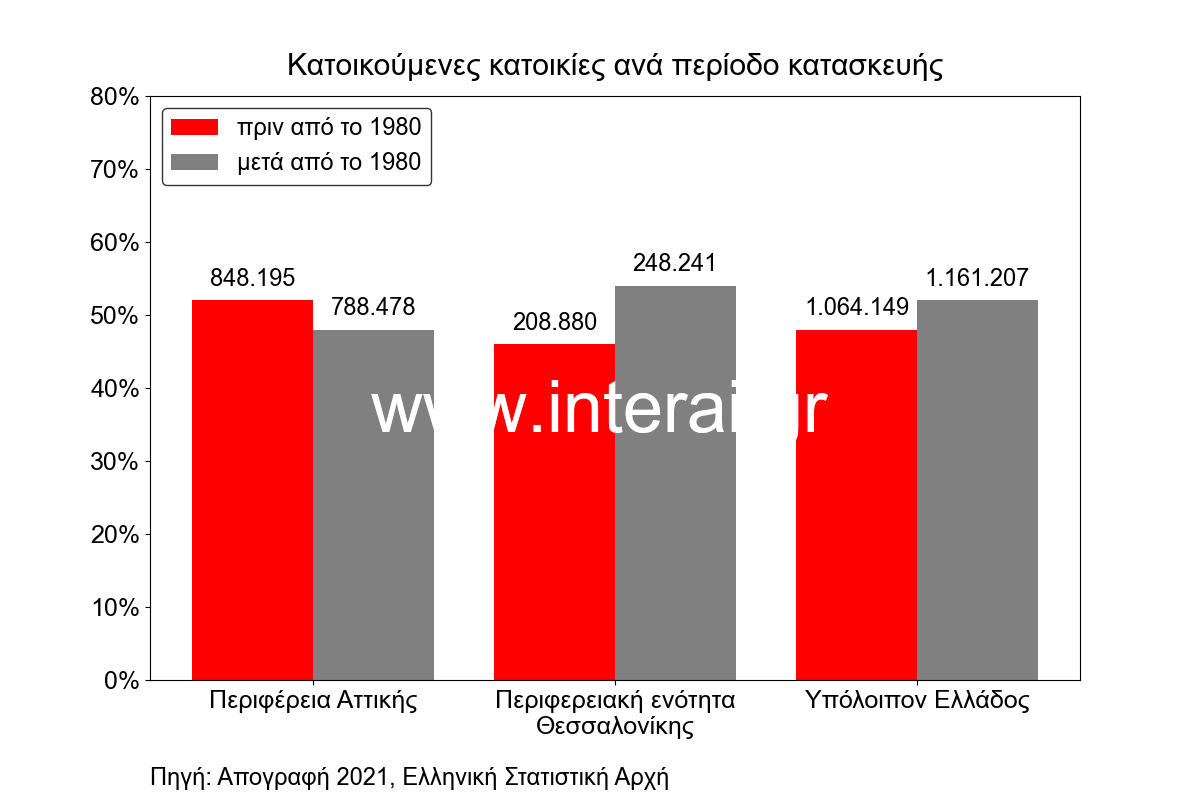
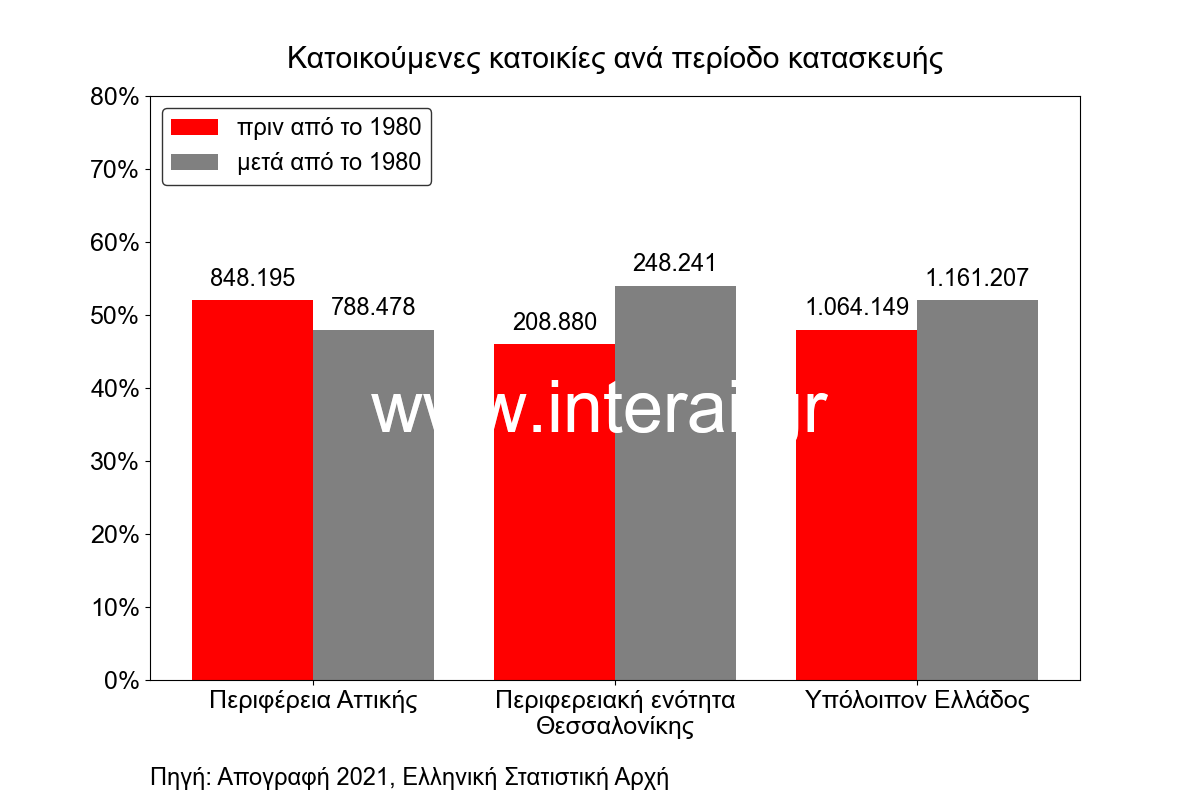
1111

Changed region(s): [[0.2467, 0.0625, 0.8017, 0.0938]]

diff --git a/stats_images_insert.py b/stats_images_insert.py
@@ -3,16 +3,41 @@ from psycopg2.extras import Json
 
 
 # Variables for the new record
-stats_data = [{"page":"Greece","sum":24187522,"daily_average":7356,"2015-11":223601,"2015-12":197326,"2016-01":216287,"2016-02":207140,"2016-03":226429,"2016-04":235525,"2016-05":236516,"2016-06":231928,"2016-07":214597,"2016-08":223345,"2016-09":212563,"2016-10":209623,"2016-11":228265,"2016-12":195568,"2017-01":233329,"2017-02":203050,"2017-03":232449,"2017-04":219176,"2017-05":233792,"2017-06":211580,"2017-07":209428,"2017-08":197693,"2017-09":196637,"2017-10":215884,"2017-11":205811,"2017-12":184564,"2018-01":209209,"2018-02":200678,"2018-03":232487,"2018-04":223327,"2018-05":237658,"2018-06":237555,"2018-07":265311,"2018-08":221942,"2018-09":225862,"2018-10":236803,"2018-11":203010,"2018-12":189880,"2019-01":220105,"2019-02":199981,"2019-03":211314,"2019-04":207207,"2019-05":215919,"2019-06":209262,"2019-07":226078,"2019-08":204618,"2019-09":209503,"2019-10":217647,"2019-11":199648,"2019-12":186626,"2020-01":218382,"2020-02":191675,"2020-03":232905,"2020-04":243675,"2020-05":223164,"2020-06":184584,"2020-07":202964,"2020-08":223548,"2020-09":206251,"2020-10":200461,"2020-11":186499,"2020-12":177193,"2021-01":196950,"2021-02":182002,"2021-03":237663,"2021-04":231813,"2021-05":228698,"2021-06":223765,"2021-07":242349,"2021-08":264239,"2021-09":227238,"2021-10":218717,"2021-11":201371,"2021-12":191955,"2022-01":227521,"2022-02":222792,"2022-03":247974,"2022-04":225891,"2022-05":247029,"2022-06":232155,"2022-07":241060,"2022-08":249973,"2022-09":266828,"2022-10":252580,"2022-11":243684,"2022-12":225304,"2023-01":263356,"2023-02":217347,"2023-03":262284,"2023-04":226563,"2023-05":288337,"2023-06":283364,"2023-07":277672,"2023-08":282594,"2023-09":243614,"2023-10":247495,"2023-11":215626,"2023-12":214890,"2024-01":250057,"2024-02":247216,"2024-03":244795,"2024-04":245375,"2024-05":240048,"2024-06":217037,"2024-07":230085,"2024-08":247972,"2024-09":216710,"2024-10":210497},{"page":"Mykonos","sum":3039944,"daily_average":925,"2015-11":16272,"2015-12":19377,"2016-01":24539,"2016-02":20287,"2016-03":21951,"2016-04":24857,"2016-05":33264,"2016-06":39010,"2016-07":45898,"2016-08":41617,"2016-09":30882,"2016-10":21817,"2016-11":15663,"2016-12":16789,"2017-01":26045,"2017-02":20067,"2017-03":21814,"2017-04":22245,"2017-05":29952,"2017-06":36759,"2017-07":43569,"2017-08":34369,"2017-09":28245,"2017-10":21121,"2017-11":16098,"2017-12":13848,"2018-01":22119,"2018-02":18982,"2018-03":22534,"2018-04":25695,"2018-05":35179,"2018-06":43885,"2018-07":54268,"2018-08":46631,"2018-09":39377,"2018-10":28451,"2018-11":17245,"2018-12":18785,"2019-01":39414,"2019-02":23285,"2019-03":25353,"2019-04":26162,"2019-05":34759,"2019-06":43381,"2019-07":49014,"2019-08":44116,"2019-09":32988,"2019-10":23748,"2019-11":16456,"2019-12":19326,"2020-01":22740,"2020-02":16319,"2020-03":13732,"2020-04":15480,"2020-05":19865,"2020-06":20740,"2020-07":30397,"2020-08":49772,"2020-09":22314,"2020-10":17693,"2020-11":14736,"2020-12":16382,"2021-01":16933,"2021-02":15736,"2021-03":18557,"2021-04":19074,"2021-05":25488,"2021-06":38259,"2021-07":56761,"2021-08":48312,"2021-09":34324,"2021-10":22883,"2021-11":16284,"2021-12":16551,"2022-01":24740,"2022-02":25497,"2022-03":25412,"2022-04":29413,"2022-05":36571,"2022-06":43097,"2022-07":57859,"2022-08":50880,"2022-09":40867,"2022-10":26941,"2022-11":18258,"2022-12":16598,"2023-01":22705,"2023-02":19505,"2023-03":25448,"2023-04":30085,"2023-05":36179,"2023-06":43900,"2023-07":53964,"2023-08":45290,"2023-09":35842,"2023-10":24215,"2023-11":16383,"2023-12":15552,"2024-01":21790,"2024-02":17610,"2024-03":19178,"2024-04":22155,"2024-05":26377,"2024-06":30702,"2024-07":32750,"2024-08":31048,"2024-09":25805,"2024-10":20488},{"page":"Santorini","sum":8187090,"daily_average":2490,"2015-11":55900,"2015-12":59696,"2016-01":84623,"2016-02":76338,"2016-03":83581,"2016-04":87504,"2016-05":109894,"2016-06":109357,"2016-07":120654,"2016-08":109741,"2016-09":100952,"2016-10":85798,"2016-11":63886,"2016-12":78042,"2017-01":87348,"2017-02":72936,"2017-03":86177,"2017-04":84256,"2017-05":105673,"2017-06":114130,"2017-07":132163,"2017-08":103070,"2017-09":88000,"2017-10":87781,"2017-11":61805,"2017-12":63274,"2018-01":74870,"2018-02":65922,"2018-03":77412,"2018-04":84295,"2018-05":108227,"2018-06":112697,"2018-07":119571,"2018-08":101574,"2018-09":96612,"2018-10":75445,"2018-11":52064,"2018-12":63126,"2019-01":68615,"2019-02":55531,"2019-03":65072,"2019-04":75677,"2019-05":82474,"2019-06":96927,"2019-07":94721,"2019-08":79394,"2019-09":75320,"2019-10":69982,"2019-11":48950,"2019-12":61094,"2020-01":63860,"2020-02":53912,"2020-03":46711,"2020-04":60905,"2020-05":52818,"2020-06":60183,"2020-07":73598,"2020-08":81249,"2020-09":67444,"2020-10":54808,"2020-11":42211,"2020-12":61120,"2021-01":53539,"2021-02":48385,"2021-03":61226,"2021-04":51455,"2021-05":61908,"2021-06":78274,"2021-07":96762,"2021-08":95120,"2021-09":84439,"2021-10":71538,"2021-11":45975,"2021-12":58072,"2022-01":62363,"2022-02":50815,"2022-03":51063,"2022-04":62589,"2022-05":86515,"2022-06":89734,"2022-07":98405,"2022-08":100611,"2022-09":93216,"2022-10":73881,"2022-11":54549,"2022-12":55264,"2023-01":68172,"2023-02":57898,"2023-03":71863,"2023-04":76003,"2023-05":102608,"2023-06":112697,"2023-07":114060,"2023-08":109585,"2023-09":90805,"2023-10":70852,"2023-11":47066,"2023-12":55043,"2024-01":61708,"2024-02":51210,"2024-03":56168,"2024-04":59960,"2024-05":65842,"2024-06":61128,"2024-07":63034,"2024-08":61486,"2024-09":56598,"2024-10":50636}]  
-tags = "Ελλάδα, Σαντορίνη, Μύκονος, Πρόβλεψη τουρισμού"
-slug = "greece-mykonos-santorini-wikipedia-pageviews-timeseries-241124"
+stats_data = {
+  "Περιφέρεια Αττικής": {
+    "πριν από το 1980": 848195,
+    "1980 και μετά": 788478,
+    "Ποσοστά": {
+      "πριν από το 1980": "52%",
+      "1980 και μετά": "48%"
+    }
+  },
+  "Περιφερειακή ενότητα Θεσσαλονίκης": {
+    "πριν από το 1980": 208880,
+    "1980 και μετά": 248241,
+    "Ποσοστά": {
+      "πριν από το 1980": "46%",
+      "1980 και μετά": "54%"
+    }
+  },
+  "Υπόλοιπον Ελλάδος": {
+    "πριν από το 1980": 1064149,
+    "1980 και μετά": 1161207,
+    "Ποσοστά": {
+      "πριν από το 1980": "48%",
+      "1980 και μετά": "52%"
+    }
+  }
+} 
+tags = "Κατοικίες, Περιφέρεια Αττικής, Περιφερειακή ενότητα Θεσσαλονίκης, Αντισεισμικός Σχεδιασμός Κτιριακών Κατασκευών"
+slug = "Κατοικούμενες-κατοικίες-ανά-περίοδο-κατασκευής-241124"
 # source = "Πηγή: Απογραφή 2021, Ελληνική Στατιστική Αρχή"
-source = "Πηγή: Wikipedia"
-title = "Επισκέψεις των σελίδων για Greece, Santorini και Μύκονος στη Wikipedia από 11/2015 έως 10/2024 ανά μήνα"
-description = "Στο παρόν γράφημα παρουσιάζεται η Κατανομή Επισκέψεων των σελίδων για Greece, Santorini και Mykonos στη Wikipedia από 11/2015 έως 10/2024 ανά μήνα προκειμένου να δειχθεί η τουριστική τάση. Στο βαθμό που οι επισκέψεις στη Wikipedia αντανακλούν αναλογικά τις αναζητήσεις των τουριστών (που χρησιμοποιούν όρους στα αγγλικά), το γράφημα αποκτά χαρακτήρα πρόβλεψης."
-w_image_file_path = "/stats_images_watermarked/greece_mykonos_santorini_wikipedia_pageviews_timeseries_watermarked.png"
-image_file_path = "/stats_images/greece_mykonos_santorini_wikipedia_pageviews_timeseries.png"
-thumbnail_file_path = "/stats_thumbnails/greece_mykonos_santorini_wikipedia_pageviews_timeseries_thumbnail.png"
+source = "Πηγή: Απογραφή 2021, Ελληνική Στατιστική Αρχή"
+title = "Κατοικούμενες κατοικίες ανά περίοδο κατασκευής"
+description = "Στο παρόν γράφημα παρουσιάζεται η κατανομή των κατοικούμενων κατοικιών ανά περίοδο κατασκευής, πριν και μετά το 1980, για την Περιφέρεια Αττικής, την Περιφερειακή ενότητα Θεσσαλονίκης και το Υπόλοιπον Ελλάδος. Στο βαθμό που οι κατοικίες πριν το 1980, δεν σχεδιαζόντουσαν με αυστηρά αντισεισμικά κριτήρια και λόγω ηλικίας των κτιρίων, το ποσοστό των κτιρίων που κατασκευάστηκαν πριν το 1980, αντανακλά τον κίνδυνο μειωμένων αντοχών σε περιπτώσεις ισχυρών σεισμών."
+w_image_file_path = "/stats_images_watermarked/Κατοικούμενες_Κατοικίες_Ανά_Περίοδο_Κατασκευής_watermarked.png"
+image_file_path = "/stats_images/Κατοικούμενες_Κατοικίες_Ανά_Περίοδο_Κατασκευής.png"
+thumbnail_file_path = "/stats_thumbnails/Κατοικούμενες_Κατοικίες_Ανά_Περίοδο_Κατασκευής_thumbnail.png"
 
 # Database connection details
 db_config = {

diff --git a/bar_chart_katoikoumenes_katoikies_ana_periodo_kataskevis.py b/bar_chart_katoikoumenes_katoikies_ana_periodo_kataskevis.py
@@ -89,7 +89,7 @@ for bars, values in [(bars_before, values_before_1980), (bars_after, values_afte
         )
 
 # Customize chart
-plt.title("Κατοικούμενες κατοικίες ανά περίοδο κατασκευής", pad=15)
+plt.title("Κατοικούμενες κατοικίες ανά περίοδο κατασκευής", pad=20)
 wrapped_labels = [textwrap.fill(label, width=20) for label in locations]
 plt.xticks(x, wrapped_labels, ha='center')
 
